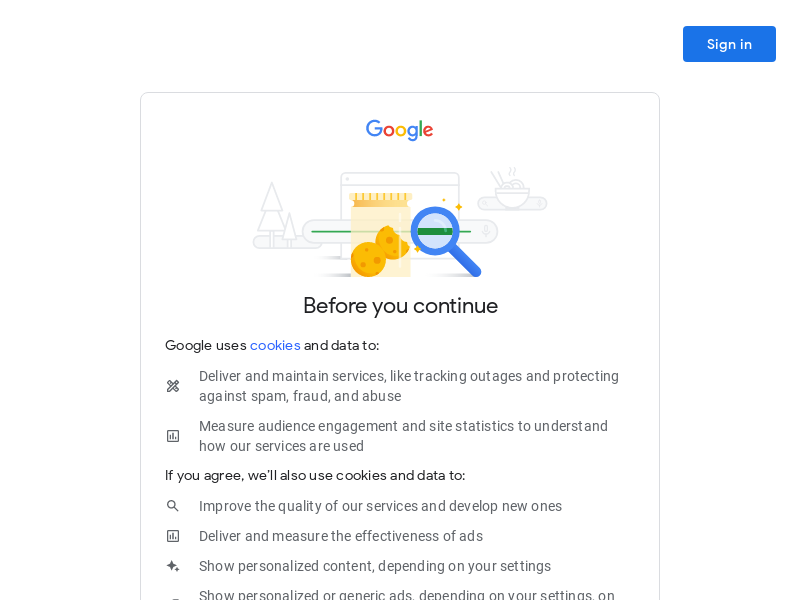
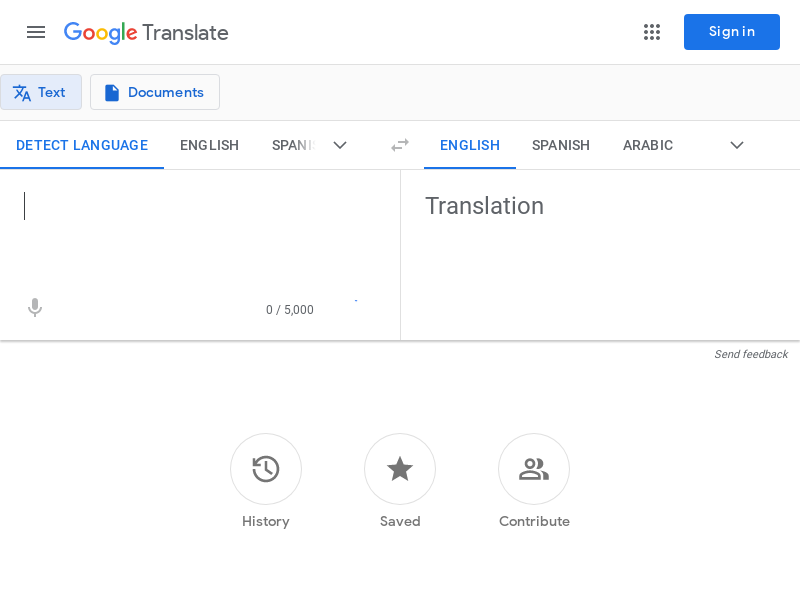
update: cookie accepted but it takes to much time

diff --git a/src/puppeteer.ts b/src/puppeteer.ts
@@ -1,6 +1,4 @@
 import Puppeteer from 'puppeteer';
-import { promises as fs } from 'fs';
-import { join } from 'path';
 
 function fakeAsync(millisecond: number) {
     return new Promise((resolve, reject) => {
@@ -11,48 +9,12 @@ function fakeAsync(millisecond: number) {
 async function start() {
     try {
         const browser = await Puppeteer.launch();
-        // Do not work
-        // const browser = await Puppeteer.launch({
-        //     headless: false,
-        //     defaultViewport: {
-        //         width: 600,
-        //         height: 600,
-        //     },
-        // });
         const page = await browser.newPage();
 
         await page.goto('https://translate.google.com/');
-        await page.setBypassCSP(true);
-
-        // Do not work
-        // const jqueryFilePath = join(
-        //     __dirname,
-        //     '..',
-        //     'lib',
-        //     'jquery-3.6.0.slim.min.js',
-        // );
-        // await page.addScriptTag({
-        //     path: jqueryFilePath,
-        // });
-
-        // Do not work
-        // const jqueryFilePath = join(
-        //     __dirname,
-        //     '..',
-        //     'lib',
-        //     'jquery-3.6.0.slim.min.js',
-        // );
-        // await page.addScriptTag({
-        //     content: await fs.readFile(jqueryFilePath, 'utf-8'),
-        // });
-
-        // Do not work
-        /* await page.addScriptTag({
-            url: 'https://code.jquery.com/jquery-3.2.1.min.js',
-        }); */
 
         const cookieAcceptBtn = await page.$(
-            'window.jQuery(\'button:contains("I agree")\')',
+            'button[aria-label="Agree to the use of cookies and other data for the purposes described"]',
         );
 
         if (!cookieAcceptBtn) {
@@ -61,9 +23,28 @@ async function start() {
             );
         }
         await cookieAcceptBtn.click();
+
+        await page.evaluate(() => {
+            let sourceContentDivs = document.querySelectorAll(
+                'div[jsController="gWGePc"]',
+            );
+
+            for (const sourceContentDiv of sourceContentDivs) {
+                sourceContentDiv.innerHTML = 'change to something';
+            }
+        });
+
+        await page.waitForSelector('span[jsname="W297wb"]');
+        const targetContent = await page.$('span[jsname="W297wb"]');
+        const targetContentValue = await page.evaluate(
+            (element) => element.textContent,
+            targetContent,
+        );
+        console.log(targetContentValue);
+
         await fakeAsync(2000 + Math.random() * 832);
-        await browser.close();
         await page.screenshot({ path: 'amazing.png' });
+        await browser.close();
     } catch (error) {
         console.dir(error, { depth: null });
         process.exit(1);
